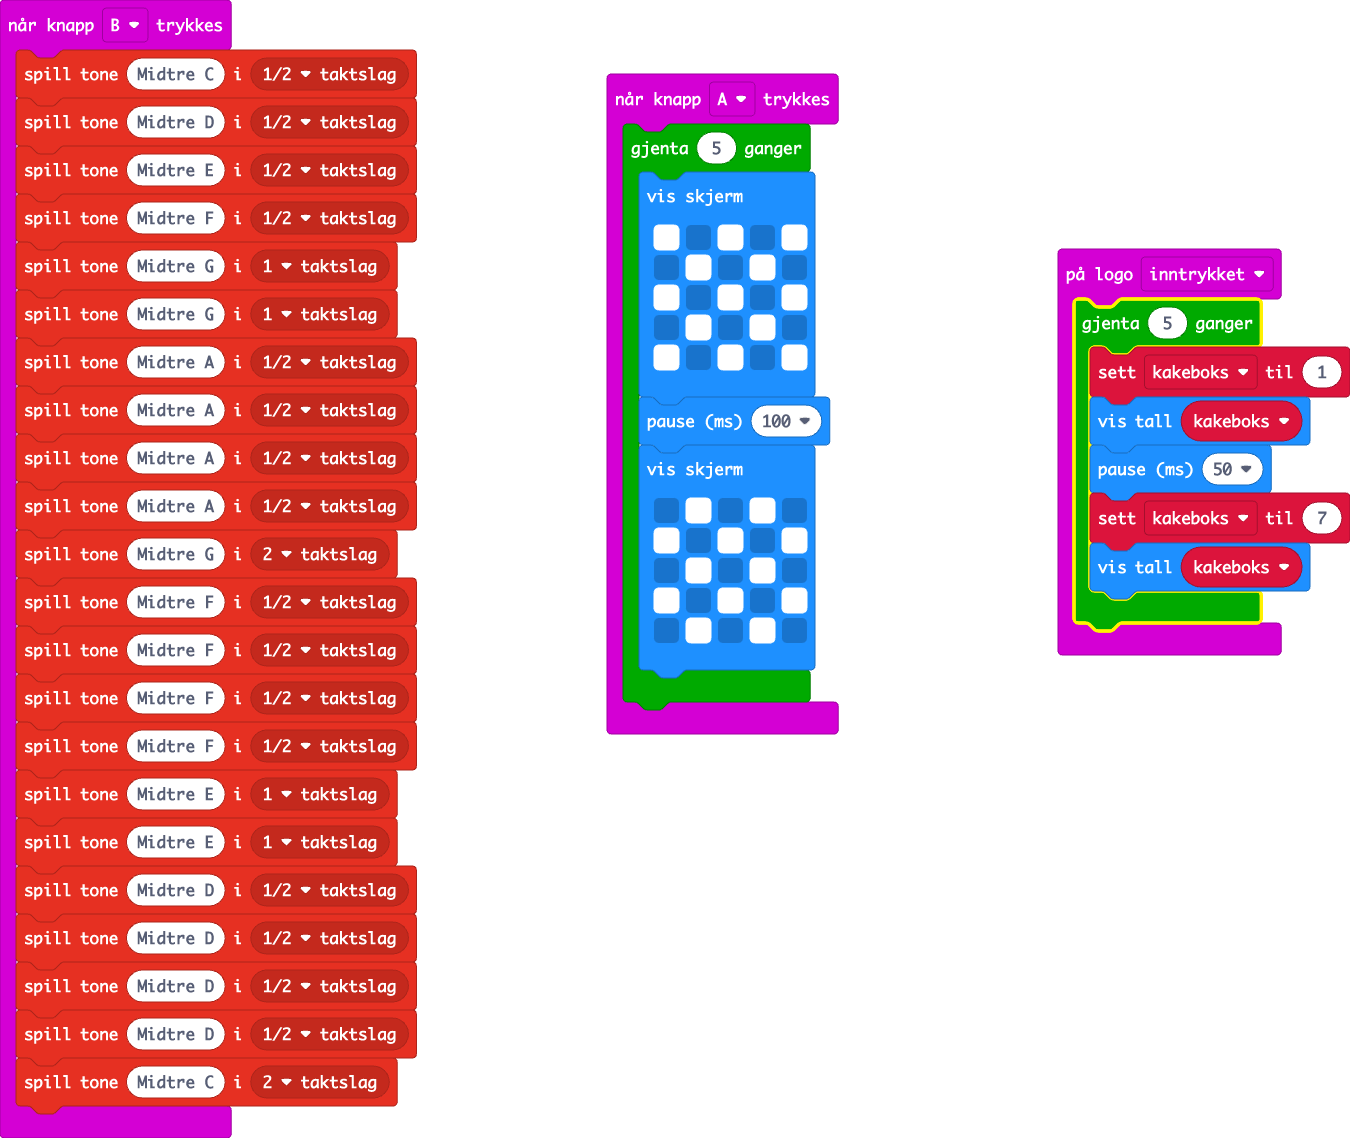
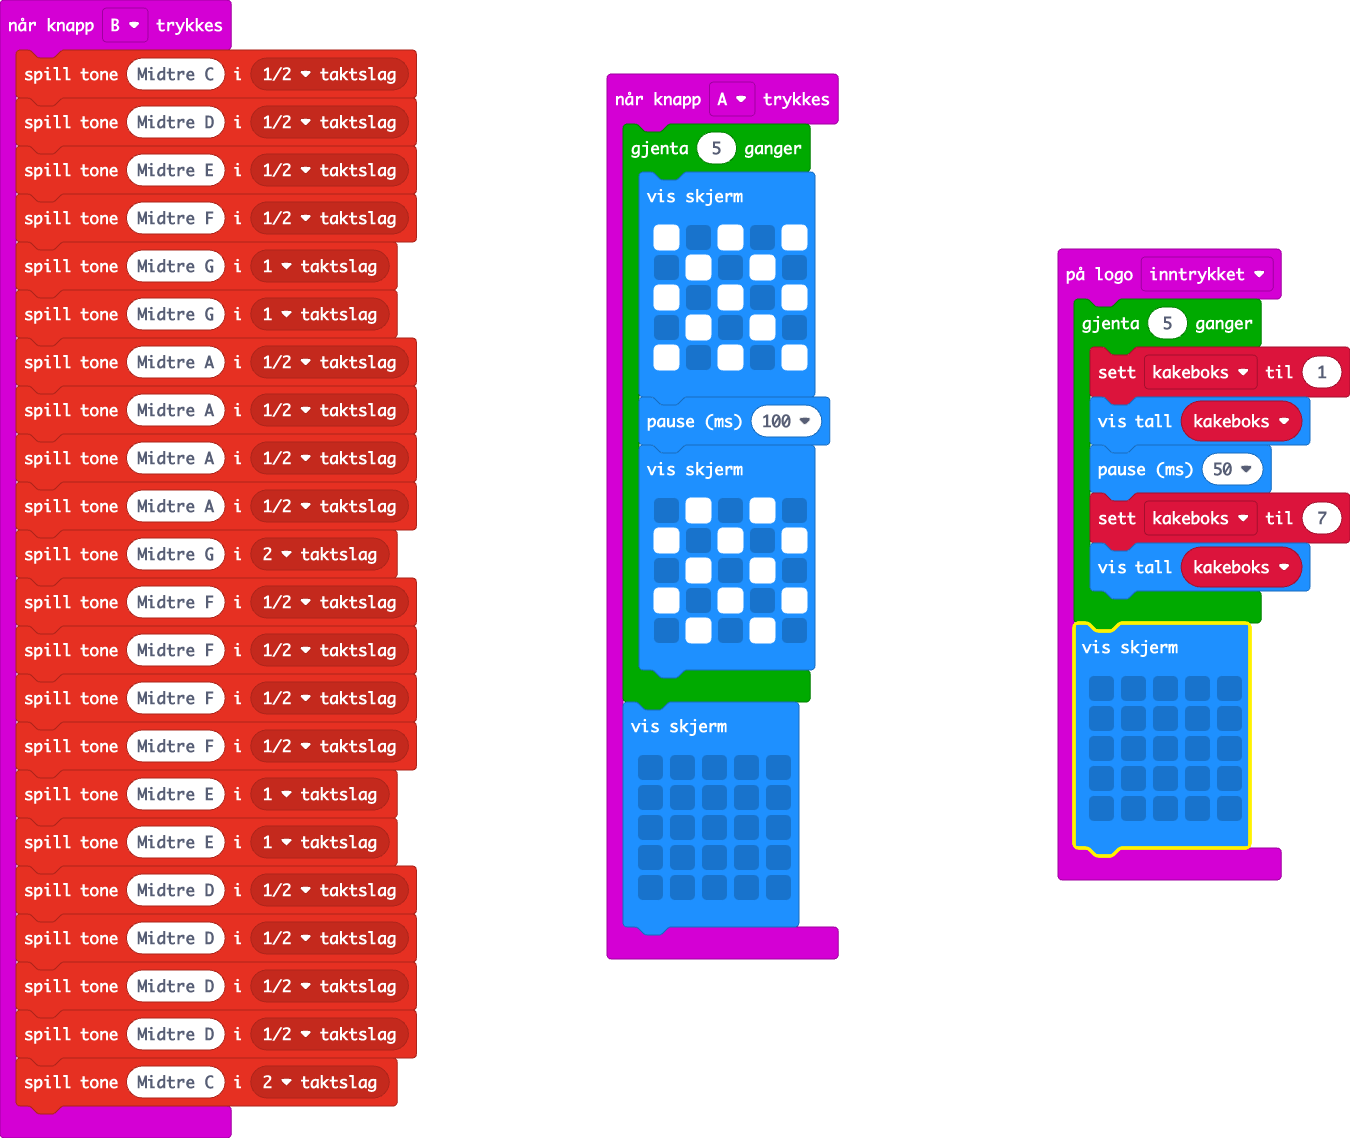
la til tøm skjerm

Changed region(s): [[0.7778, 0.2768, 0.9644, 0.7996], [0.4356, 0.6151, 0.6222, 0.8612], [0.8089, 0.246, 0.9333, 0.2768]]

diff --git a/main.ts b/main.ts
@@ -7,6 +7,13 @@ input.onLogoEvent(TouchButtonEvent.Pressed, function () {
         kakeboks = 7
         basic.showNumber(kakeboks)
     }
+    basic.showLeds(`
+        . . . . .
+        . . . . .
+        . . . . .
+        . . . . .
+        . . . . .
+        `)
 })
 input.onButtonPressed(Button.A, function () {
     for (let index = 0; index < 5; index++) {
@@ -26,6 +33,13 @@ input.onButtonPressed(Button.A, function () {
             . # . # .
             `)
     }
+    basic.showLeds(`
+        . . . . .
+        . . . . .
+        . . . . .
+        . . . . .
+        . . . . .
+        `)
 })
 input.onButtonPressed(Button.B, function () {
     music.playTone(262, music.beat(BeatFraction.Half))
